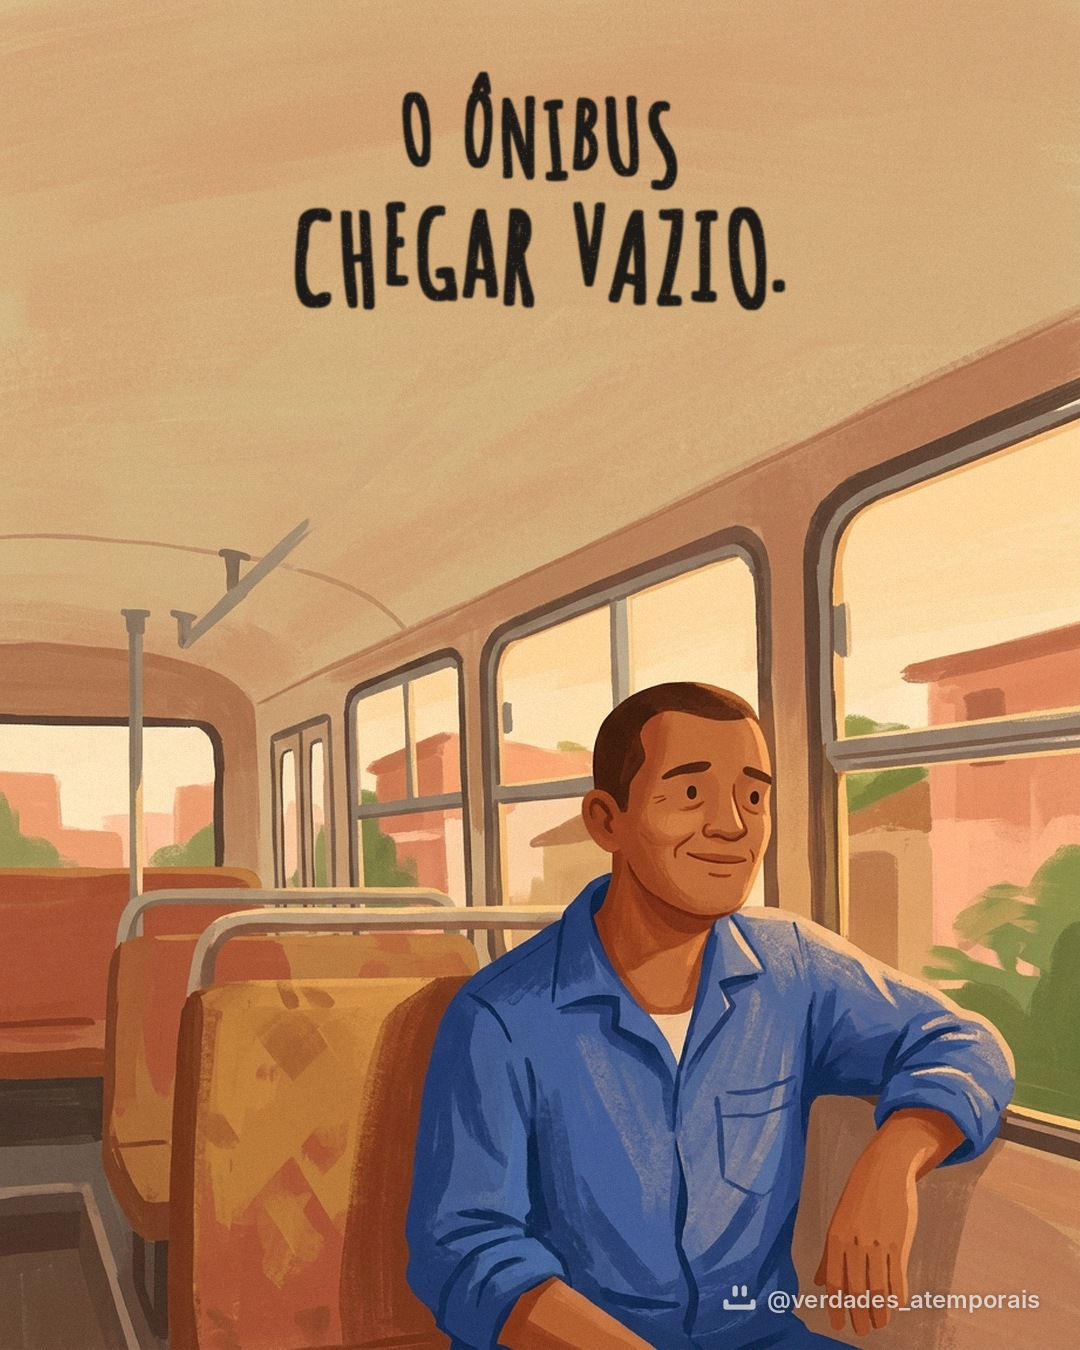
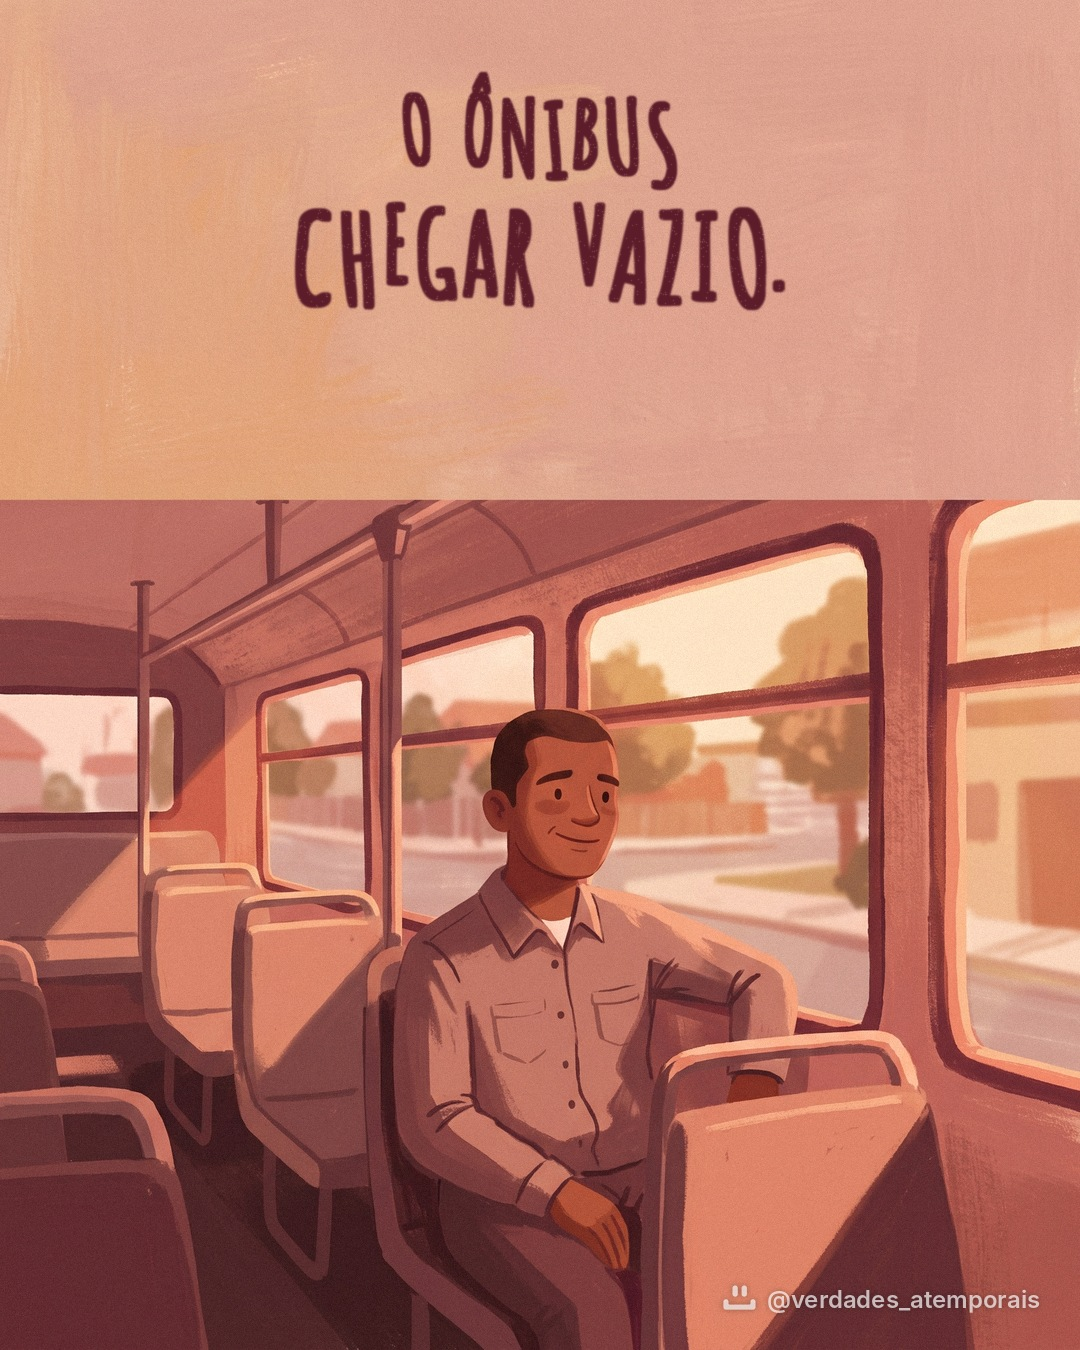
rb-011 pequenas refeito (afeto) e importador de imagens do Gemini
Claude-Session: https://claude.ai/code/session_017zB9tx6PZ

diff --git a/rebrand/importar.py b/rebrand/importar.py
@@ -1,0 +1,18 @@
+"""Importa imagens baixadas do Gemini (via Drive) para fotos/ilustrada/vb-<chave>NN.png.
+Uso: python3 importar.py <chave> <titulo1> <titulo2> ...   (títulos na ordem dos slides)
+Procura os arquivos salvos pelas ferramentas em /tmp/claude-tool-results/*/mcp-Google_Drive-download_file_content-*.txt"""
+import base64, glob, io, json, os, sys
+from PIL import Image
+chave, titulos = sys.argv[1], sys.argv[2:]
+achados = {}
+for p in glob.glob('/tmp/claude-tool-results/*/mcp-Google_Drive-download_file_content-*.txt'):
+    try:
+        d = json.load(open(p))
+    except Exception:
+        continue
+    if d.get('title') in titulos:
+        achados[d['title']] = d['content']
+for i, t in enumerate(titulos, 1):
+    im = Image.open(io.BytesIO(base64.b64decode(achados[t]))).convert('RGB')
+    destino = os.path.join(os.path.dirname(os.path.abspath(__file__)), 'fotos', 'ilustrada', f'vb-{chave}{i:02d}.png')
+    im.save(destino); print(os.path.basename(destino), im.size)
